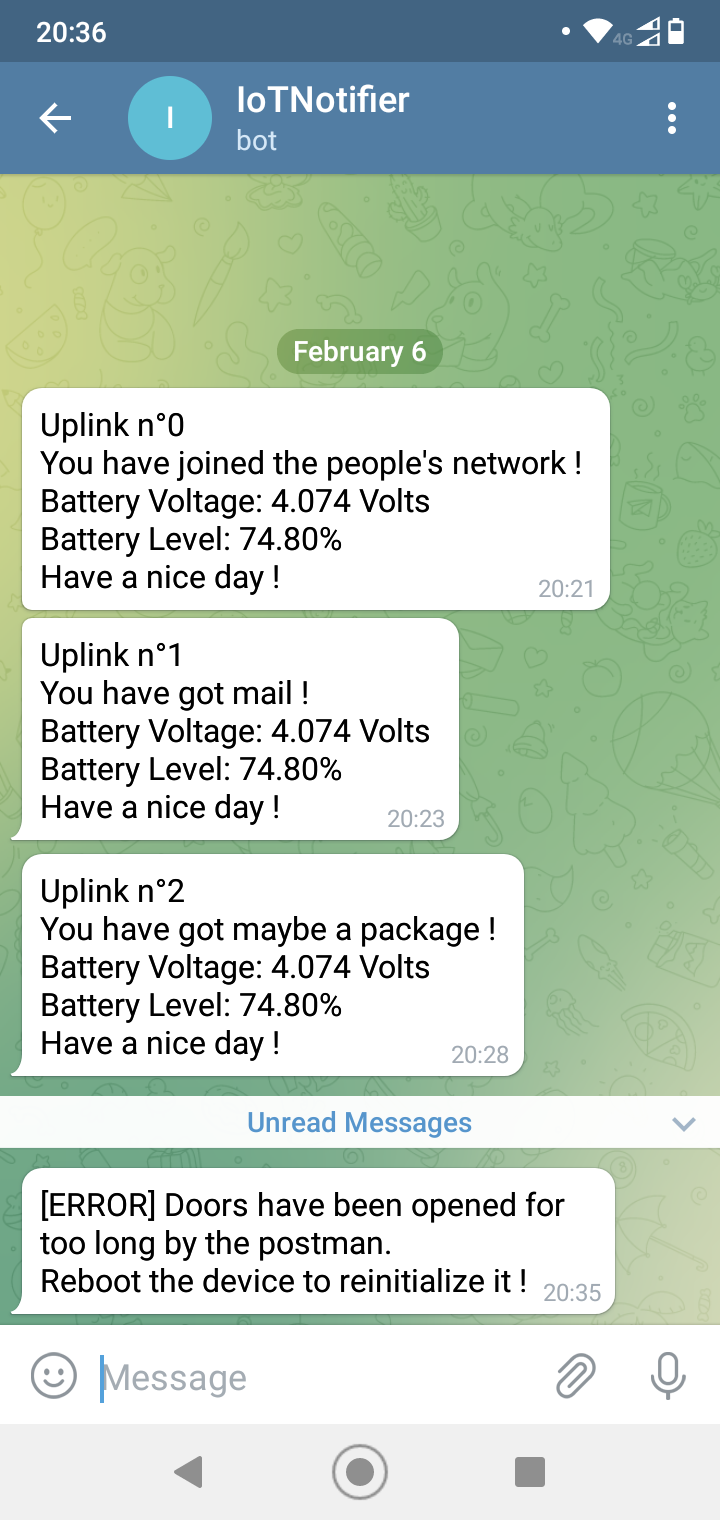
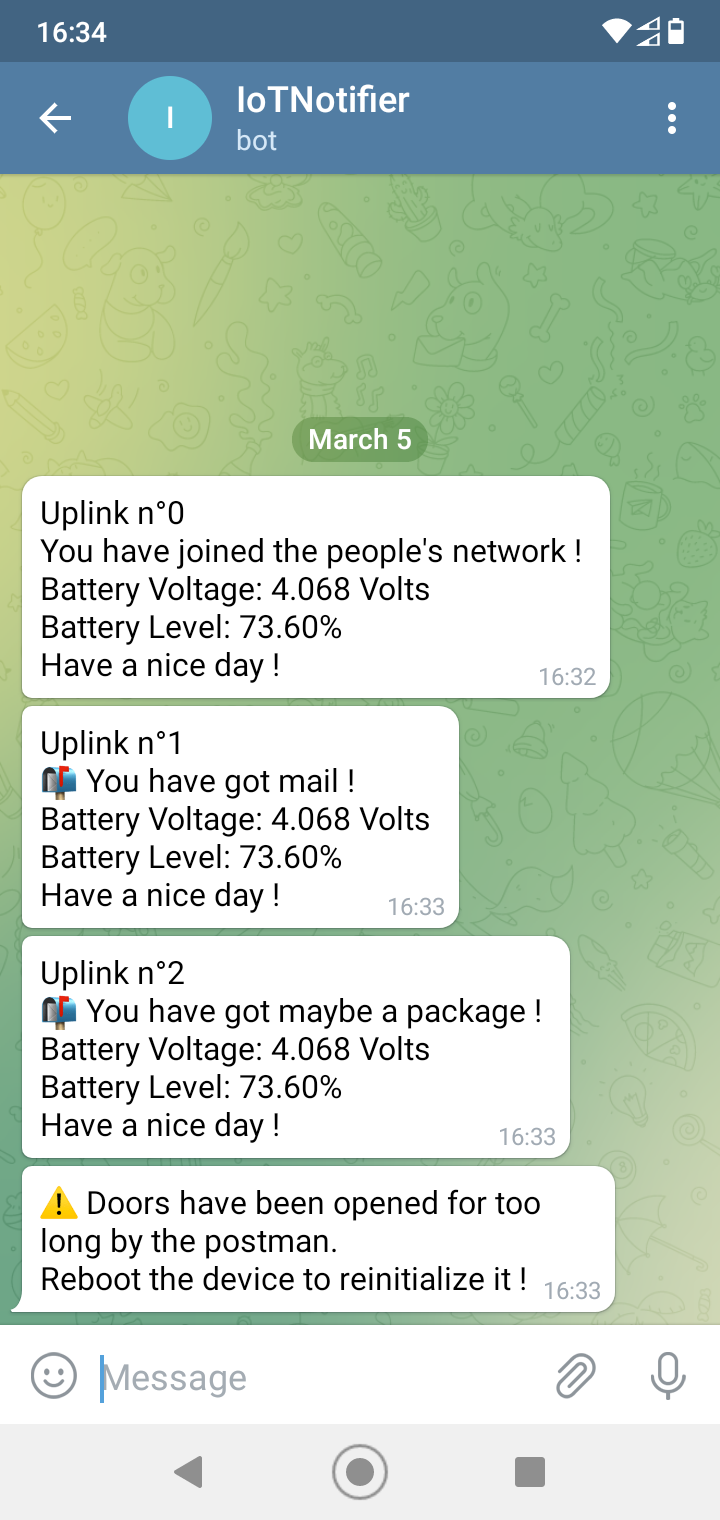
Adding emoji for Telegram message.

diff --git a/source/decoder/MailboxNotifierDecoder.js b/source/decoder/MailboxNotifierDecoder.js
@@ -6,15 +6,16 @@ function Decoder(bytes, port, uplink_info) {
 	switch (data) {
 		case 0x03:
 			return {
-				msg: "Uplink n°" + uplink_info.fcnt + "\nYou have got mail !\nBattery Voltage: "
+				msg: "Uplink n°" + uplink_info.fcnt + "\n[OK] You have got mail !\nBattery Voltage: "
 					+ ((bytes[1] << 8) + bytes[2]) / 1000
 					+ " Volts\nBattery Level: "
 					+ ((((((bytes[1] << 8) + bytes[2]) / 1000) - 3.7) / (4.2 - 3.7)) * 100).toPrecision(4)
 					+ "%\nHave a nice day !",
+					code : 03
 			};
 		case 0x02:
 			return {
-				msg: "Uplink n°" + uplink_info.fcnt + "\nYou have got maybe a package !\nBattery Voltage: "
+				msg: "Uplink n°" + uplink_info.fcnt + "\n[OK] You have got maybe a package !\nBattery Voltage: "
 					+ ((bytes[1] << 8) + bytes[2]) / 1000
 					+ " Volts\nBattery Level: "
 					+ ((((((bytes[1] << 8) + bytes[2]) / 1000) - 3.7) / (4.2 - 3.7)) * 100).toPrecision(4)

diff --git a/README.md b/README.md
@@ -11,31 +11,31 @@ The compromise over this kind of system is that you can't send heavy payload as 
 <!-- TOC -->
 
 - [HelTec-Cube-LoRaWAN-Helium-Mailbox-Notifier](#heltec-cube-lorawan-helium-mailbox-notifier)
-    - [Table of Contents](#table-of-contents)
-    - [Architecture Schema](#architecture-schema)
-    - [Helium Organization](#helium-organization)
-        - [Registering the device in the blockchain](#registering-the-device-in-the-blockchain)
-        - [Setting the AWS IoT Core Integration](#setting-the-aws-iot-core-integration)
-        - [Decoder Function](#decoder-function)
-        - [Flows](#flows)
-    - [Telegram API](#telegram-api)
-    - [Amazon Web Services](#amazon-web-services)
-        - [AWS IoT Core](#aws-iot-core)
-        - [Telegram Lambda Function](#telegram-lambda-function)
-        - [Twilio Lambda Function](#twilio-lambda-function)
-        - [Amazon SNS - Simple Notification Service](#amazon-sns---simple-notification-service)
-        - [Rules](#rules)
-    - [Heltec AB01](#heltec-ab01)
-        - [Prerequisite](#prerequisite)
-        - [Data Format](#data-format)
-        - [First Byte values](#first-byte-values)
-        - [Second and Third Byte](#second-and-third-byte)
-        - [Power up](#power-up)
-        - [Fetch mail](#fetch-mail)
-        - [You have got mail](#you-have-got-mail)
-        - [Power-Saving](#power-saving)
-    - [Notifications in action](#notifications-in-action)
-    - [Electic Schema](#electic-schema)
+  - [Table of Contents](#table-of-contents)
+  - [Architecture Schema](#architecture-schema)
+  - [Helium Organization](#helium-organization)
+    - [Registering the device in the blockchain](#registering-the-device-in-the-blockchain)
+    - [Setting the AWS IoT Core Integration](#setting-the-aws-iot-core-integration)
+    - [Decoder Function](#decoder-function)
+    - [Flows](#flows)
+  - [Telegram API](#telegram-api)
+  - [Amazon Web Services](#amazon-web-services)
+    - [AWS IoT Core](#aws-iot-core)
+    - [Telegram Lambda Function](#telegram-lambda-function)
+    - [Twilio Lambda Function](#twilio-lambda-function)
+    - [Amazon SNS - Simple Notification Service](#amazon-sns---simple-notification-service)
+    - [Rules](#rules)
+  - [Heltec AB01](#heltec-ab01)
+    - [Prerequisite](#prerequisite)
+    - [Data Format](#data-format)
+    - [First Byte values](#first-byte-values)
+    - [Second and Third Byte](#second-and-third-byte)
+    - [Power up](#power-up)
+    - [Fetch mail](#fetch-mail)
+    - [You have got mail](#you-have-got-mail)
+    - [Power-Saving](#power-saving)
+  - [Notifications in action](#notifications-in-action)
+  - [Electic Schema](#electic-schema)
 
 <!-- /TOC -->
 
@@ -72,38 +72,53 @@ In my case, the Uplink messages from Helium are published into a Topic named **t
 ``` js
 function Decoder(bytes, port, uplink_info) {
 
-  //decode message type form payload
-  var data = bytes[0];
-  //output decoded message depending on the data
-  switch (data) {
-    case 0x03:
-      return {
-msg: "Uplink n°" + uplink_info.fcnt + "\nYou have got mail !\nBattery Voltage: " + ((bytes[1]  << 8 ) + bytes[2])  /  1000  + " Volts\nBattery Level: " + ((((((bytes[1]  << 8 ) + bytes[2])  /  1000) - 3.7) / (4.2 - 3.7)) * 100).toPrecision(4) + "%\nHave a nice day !",
-      };
-    case 0x02:
-      return {
-msg: "Uplink n°" + uplink_info.fcnt + "\nYou have got maybe a parcel !\nBattery Voltage: " + ((bytes[1]  << 8 ) + bytes[2])  /  1000  + " Volts\nBattery Level: " + ((((((bytes[1]  << 8 ) + bytes[2])  /  1000) - 3.7) / (4.2 - 3.7)) * 100).toPrecision(4) + "%\nHave a nice day !",
-      };
-    case 0x04:
-      return {
-msg: "\n[ERROR] Doors have been opened for too long since you have powered the device on. Reboot the device to reinitialize it !",
-      };
-    case 0x05:
-      return {
-msg: "\n[ERROR] Doors have been opened for too long since you have fetched your mail. Reboot the device to re-initialize it !",
-      };
-    case 0x06:
-      return {
-msg: "\n[ERROR] Doors have been opened for too long by the postman. Reboot the device to reinitialize it !",
-      };
-    case 0x01:
-      return {
-msg: "Uplink n°" + uplink_info.fcnt + "\nYou have joined the people's network !\nBattery Voltage: " + ((bytes[1]  << 8 ) + bytes[2])  /  1000  + " Volts\nBattery Level: " + ((((((bytes[1]  << 8 ) + bytes[2])  /  1000) - 3.7) / (4.2 - 3.7)) * 100).toPrecision(4) + "%\nHave a nice day !",
-
-      };
-    default:
-      return {msg: "\nunknown"};
-  }
+	//decode message type form payload
+	var data = bytes[0];
+	//output decoded message depending on the data
+	switch (data) {
+		case 0x03:
+			return {
+				msg: "Uplink n°" + uplink_info.fcnt + "\n[OK] You have got mail !\nBattery Voltage: "
+					+ ((bytes[1] << 8) + bytes[2]) / 1000
+					+ " Volts\nBattery Level: "
+					+ ((((((bytes[1] << 8) + bytes[2]) / 1000) - 3.7) / (4.2 - 3.7)) * 100).toPrecision(4)
+					+ "%\nHave a nice day !",
+					code : 03
+			};
+		case 0x02:
+			return {
+				msg: "Uplink n°" + uplink_info.fcnt + "\n[OK] You have got maybe a package !\nBattery Voltage: "
+					+ ((bytes[1] << 8) + bytes[2]) / 1000
+					+ " Volts\nBattery Level: "
+					+ ((((((bytes[1] << 8) + bytes[2]) / 1000) - 3.7) / (4.2 - 3.7)) * 100).toPrecision(4)
+					+ "%\nHave a nice day !",
+			};
+		case 0x04:
+			return {
+				msg: "[ERROR] Doors have been opened for too long since you have powered the device on."
+					+ "\nReboot the device to reinitialize it !",
+			};
+		case 0x05:
+			return {
+				msg: "[ERROR] Doors have been opened for too long since you have fetched your mail."
+					+ "\nReboot the device to re-initialize it !",
+			};
+		case 0x06:
+			return {
+				msg: "[ERROR] Doors have been opened for too long by the postman."
+					+ "\nReboot the device to reinitialize it !",
+			};
+		case 0x01:
+			return {
+				msg: "Uplink n°" + uplink_info.fcnt + "\nYou have joined the people's network !\nBattery Voltage: "
+					+ ((bytes[1] << 8) + bytes[2]) / 1000
+					+ " Volts\nBattery Level: "
+					+ ((((((bytes[1] << 8) + bytes[2]) / 1000) - 3.7) / (4.2 - 3.7)) * 100).toPrecision(4)
+					+ "%\nHave a nice day !",
+			};
+		default:
+			return { msg: "\nunknown" };
+	}
 }
 ```
 
@@ -134,6 +149,31 @@ You must declare two environment variables to set your Telegram lambda with the 
 
 - _TELEGRAM_CHAT_ID_ : **\<Chat ID\>**
 - _TELEGRAM_TOKEN_ : **bot\<API Key\>**
+
+Below, the Python code to send message over Telegram for my Mailbox project :
+``` python
+import json
+import os
+import requests
+
+TELEGRAM_TOKEN =os.environ.get("TELEGRAM_TOKEN")
+TELEGRAM_CHAT_ID=os.environ.get("TELEGRAM_CHAT_ID")
+
+def lambda_handler(event, context):
+    
+    sns_msg = event['Records'][0]['Sns']['Message']; 
+    telegram_msg = sns_msg.replace("[ERROR]", "\u26A0").replace("[OK]", "\U0001F4EC"); # Mailbox Project
+
+    bot_request = 'https://api.telegram.org/' + TELEGRAM_TOKEN + '/sendMessage?chat_id=' + TELEGRAM_CHAT_ID + '&text=' + telegram_msg
+    print(event)
+    print(bot_request)
+    response = requests.get(bot_request) 
+    return {
+        'statusCode': response.status_code,
+      'msg': json.dumps('Message send with successed !'),
+       'body': json.dumps(response.json())
+  }
+```
 
 ### Twilio Lambda Function
 
